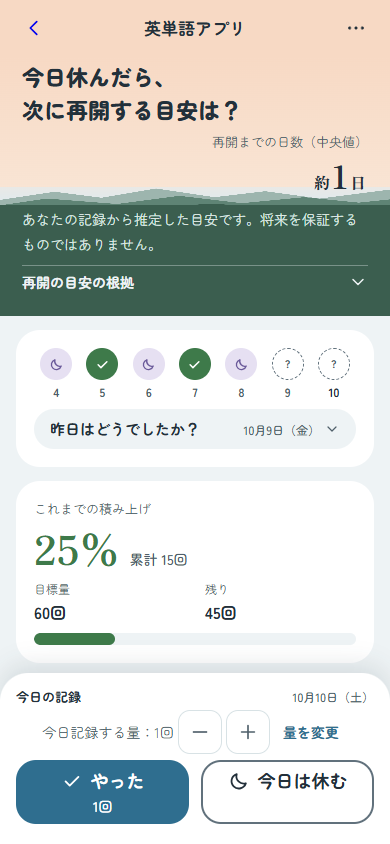
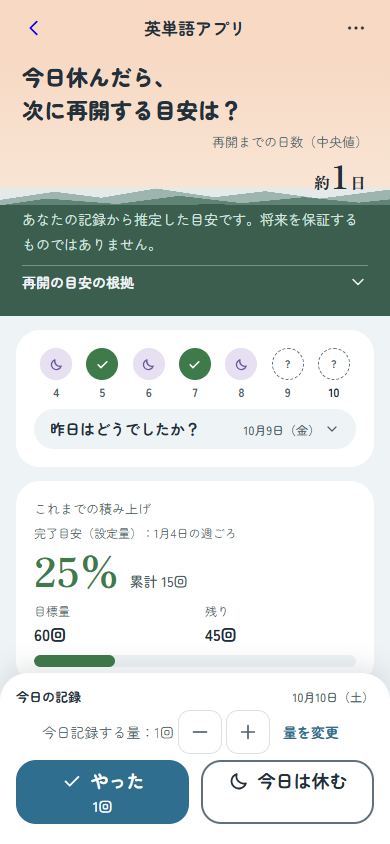
fix: スマホの進捗付近に設定量での完了目安を示す (#199)

diff --git a/apps/web/src/features/today/ProgressSummary.tsx b/apps/web/src/features/today/ProgressSummary.tsx
@@ -1,3 +1,4 @@
+import type { ReactNode } from 'react';
 import type { Log } from '@contracts';
 import { ResponsiveDetails } from './ResponsiveDetails.tsx';
 import { Section, SectionLabel } from '../../ui/components/Section.tsx';
@@ -18,17 +19,21 @@ interface Props {
   /** 量の書き方（分のGoalは累計・総量を時間＋分で出す、P-18）。 */
   fmt: AmountFormat;
   showDetails?: boolean;
+  brief?: ReactNode;
 }
 
 /** これまでの積み上げ。％は進捗だけに使い、累計は記録開始日〜今日の範囲で描く（今日より先の線は引かない）。 */
-export function ProgressSummary({ progress, initialProgress, logs, recordStartDate, today, fmt, showDetails = true }: Props) {
+export function ProgressSummary({ progress, initialProgress, logs, recordStartDate, today, fmt, showDetails = true, brief }: Props) {
   // 100% は達成したときだけ出す（未達で切り上げて 100% と見せない）
   const percent = Math.min(100, Math.floor((progress.done / progress.total) * 100));
   return (
     <Section labelledBy="fr-progress-title">
-      <SectionLabel as="h2" id="fr-progress-title">
-        {todayCopy.progressLabel}
-      </SectionLabel>
+      <div className="fr-progress__header">
+        <SectionLabel as="h2" id="fr-progress-title">
+          {todayCopy.progressLabel}
+        </SectionLabel>
+        {brief}
+      </div>
       <div className="fr-progress">
         <p className="fr-progress__percent">
           {percent}

diff --git a/apps/web/src/features/today/TodayPage.tsx b/apps/web/src/features/today/TodayPage.tsx
@@ -25,7 +25,7 @@ import { CoreMetric } from './CoreMetric.tsx';
 import { GoalMenu } from './GoalMenu.tsx';
 import { RecentDays } from '../history/RecentDays.tsx';
 import { ForecastBoundary } from './ForecastBoundary.tsx';
-import { CompletionDetails, OutlookPanel } from './OutlookPanel.tsx';
+import { CompletionBrief, CompletionDetails, OutlookPanel } from './OutlookPanel.tsx';
 import { ProgressDetails, ProgressSummary } from './ProgressSummary.tsx';
 import { AchievedFacts, AchievedPanel, ChangeHeader, RecordedSummary, TodayRecordLine } from './RecordedSummary.tsx';
 import { useTodayData } from './useTodayData.ts';
@@ -353,7 +353,7 @@ function TodayContent({
   const fmt = amountFormat(goal);
   const progress =
     view.kind === 'completed' || view.kind === 'forecast' || view.kind === 'today-recorded' ? (
-      <ProgressSummary showDetails={false} progress={view.progress} initialProgress={goal.initialProgress} logs={logs} recordStartDate={goal.recordStartDate} today={today.today} fmt={fmt} />
+      <ProgressSummary showDetails={false} brief={view.kind === 'forecast' || view.kind === 'today-recorded' ? <CompletionBrief completion={view.completion} /> : null} progress={view.progress} initialProgress={goal.initialProgress} logs={logs} recordStartDate={goal.recordStartDate} today={today.today} fmt={fmt} />
     ) : null;
   const progressDetails =
     view.kind === 'completed' || view.kind === 'forecast' || view.kind === 'today-recorded' ? (

diff --git a/apps/web/src/features/today/OutlookPanel.tsx b/apps/web/src/features/today/OutlookPanel.tsx
@@ -11,6 +11,13 @@ import { daysUntil, targetGap, targetGapText } from './target-gap.ts';
 import { sourceLabel } from '../prior/PriorForecast.tsx';
 import type { CompletionPresentation, Plan } from '../prior/presentation-types.ts';
 
+/** スマホの進捗近くへ置く同じ予測の要約。未保存量で再計算せず、日付の欠如も保持する。 */
+export function CompletionBrief({ completion }: { completion: CompletionPresentation }) {
+  return <p className="fr-completion-brief">{completion.kind === 'estimate'
+    ? completion.p50Label ? todayCopy.completionBrief(completion.p50Label) : todayCopy.completionBriefOutside
+    : todayCopy.completionBriefUnavailable}</p>;
+}
+
 /** これからの見通し（補助指標2）。目安と「10回中8回」の日付を、実際の日付に比例した軸に置く。 */
 export function OutlookPanel({
   completion,

diff --git a/apps/web/src/features/today/today-dawn.css b/apps/web/src/features/today/today-dawn.css
@@ -169,3 +169,8 @@ body:has(.fr-page--today) { background: #eef3f5; }
   .fr-page--today .fr-actionbar__pair { gap: 12px; }
   body:has(.fr-page--today) .fr-deskbar { background: #fff; color: #23303a; --fr-ink-2: #4f5f6a; --fr-dot: #2f6e8f; --fr-dot-soft: #e0edf4; --fr-on-dot: #fff; --fr-surface: #fff; --fr-line: #d8e2e5; }
 }
+
+/* 初期スマホで積み上げと未来の要約を同時に読める。詳細は既存Outlookで保持。 */
+.fr-page--today .fr-progress__header { display: flex; flex-wrap: wrap; align-items: baseline; justify-content: space-between; gap: 4px 8px; }
+.fr-page--today .fr-completion-brief { margin: 0; color: var(--fr-ink-2); font-size: 12px; line-height: 1.5; overflow-wrap: anywhere; }
+@media (min-width: 960px) { .fr-page--today .fr-completion-brief { display: none; } }

diff --git a/apps/web/src/copy/today.ts b/apps/web/src/copy/today.ts
@@ -24,6 +24,9 @@ export const todayCopy = {
   progressActual: (amount: string) => `累計 ${amount}`,
   completionLabelCurrent: (session: string) => `設定量（${session}）で続ける場合`,
   completionP50: (week: string) => `${week}ごろ`,
+  completionBrief: (week: string) => `完了目安（設定量）：${week}ごろ`,
+  completionBriefUnavailable: '完了目安：まだ算出できません',
+  completionBriefOutside: '完了目安：約3年以内の目安なし',
   completionP80: (week: string) => `10回中8回は${week}まで`,
   completionP80Over3Years: '10回中8回の完了時期の目安は、計算範囲の約3年以内には収まりません。',
   /** 補助指標2の注釈（Product Spec の固定文言）。 */

diff --git a/design-qa.md b/design-qa.md
@@ -12,13 +12,15 @@ Todayは累計・目標・残りと進捗バー、設定量で続けた場合の
 
 Goalフォームにnative Tabで入力が底の保存欄へ隠れるP2を確認（320×568の総量、390×300のタイトル）。Goal scoped CSSだけで保存欄を通常flowへ戻し、全可用fieldの可視focus・中心hit-test INPUT・末尾保存への自然scrollを再確認して解消した。共有ActionBar/Today dock/保存/validation/dirty guardは変更していない。最終独立判定は新P0/P1/P2なし。技術判定は本人UX受入の代用ではない。
 
-最終ローカル型、本番Vite build、Web111 pass/1 skip、実Chrome14 pass/fail0/skip0を実施。実AmountEditor13ケースは設定量と異なる量での注記、同量への復帰、非保存、既存整数/連打/keyboard/IME/busy/focus境界を含む。既存hookのowner/確認/保存日/昨日跨日のassertを保全した。500kBチャンク警告は既存のまま。新exact HEAD CIはDraft PR202の検証欄へrun/HEADを記録する。main041f24cとの差分でAPI/Engine変更0、依存/lock/CI workflow変更0、通常checkoutの未保存Engineと.vscodeを保全。
+最終ローカル型、本番Vite build、Web112 pass/1 skip、実Chrome14 pass/fail0/skip0を実施。実AmountEditor13ケースは設定量と異なる量での注記、同量への復帰、非保存、既存整数/連打/keyboard/IME/busy/focus境界を含む。既存hookのowner/確認/保存日/昨日跨日のassertを保全した。500kBチャンク警告は既存のまま。新exact HEAD CIはDraft PR202の検証欄へrun/HEADを記録する。main041f24cとの差分でAPI/Engine変更0、依存/lock/CI workflow変更0、通常checkoutの未保存Engineと.vscodeを保全。
 
 追加の実操作レビューは公開入口→既存ログイン→Goal一覧→設定→Today→設定量20分の保存→訂正取消→履歴→再訪の8点を通過した。保存は追加QA Goalの同日同量再保存PUT200を1回だけ実施し、設定DTO・全記録の値と件数は前後一致。4状態fixtureの書込は0。記録変更の取消focusは見出し、量変更の取消focusは元の増量操作に復帰した。保存失敗・日付変更・超過は既存テスト証拠と区別する。
 
 山の背景上にある「記録を変更」の境界は実画素2.789:1でShouldとなり、Today限定のボタン枠色1変数を濃くして390pxで4.063、1440pxで4.072へ改善した。採取したsolid文字の最小4.773、必要操作境界3.370、focus5.603。初期「+」の淡い装飾枠は1.318だが識別glyph自体は6.609であり、全枠3:1や全画像画素網羅の適合とは主張しない。最終再採取の5画像とhashを保持し、追加保存0、未解消Must/Should0。旧実画像・計測はbefore-border-fix-*とjourney-before-border-fix.jsonへ保全した。
 
 5e1952cのPR Application run38026000696はResponsiveDetailsのChrome DevTools起動待ち15秒で失敗した。該当ブラウザassert開始前であり、アプリassert失敗と読み替えない。同じrunnerイメージで前回はstderr接続先と6subtestが成功しており、再発はserver開始前の停止/遅延に整合するが、CPU/背景処理/dbusの根因は未確定。専用Chrome childにPuppeteer標準のdisable-background-networkingだけを加え、起動elapsed・Browser.getVersion・hostload/メモリ・pid/exit診断を記録する最小の隔離安定化仮説とした。起動10秒/実入力/assert/保護設定は保持し、無変更retryはしない。テストやゲートは弱めず、最終push後のPR検証に加え、既存workflow_dispatchでブランチ実HEADを直接checkoutしたApplication/FoundationのrunとSHAをPRに記録する。PRの既定checkoutは合成mergeであり、PR headSha表示だけを直接HEAD検査とは呼ばない。
+
+最終Library v4の親による実画像レビューで、390px初期画面から完了見込みが完全に外れるShouldを確認した。ProgressSummaryの見出しの横へmobile限定のCompletionBriefを再掲し、同じview.completion.p50Labelだけを使う。p50nullは約3年以内の目安なし、材料不足/conditionalはまだ算出できない、completedには出さない。desktopは非表示として既存Outlookの詳細と前提を保つ。新予測/API/draft依存の再計算は0。実部品SSR1件を加え、最終Web112 pass/1skip、型、本番build成功。前段bad0c97のPRと直接HEAD CIはともに成功し、Chrome起動6583/7200ms・実native6subtestとWeb125pass/skip0を保持する。要約後の実Chromeは390×844でbrief・累計・進捗バー・dockの全体が初期clip内に可視、320×844/568・390×300・文字200%はoverflow0/自然scroll到達、1440は非表示で既存Outlook保持。forecast/recorded/conditionalのAPI週一致、達成済みはbriefなし。非達成3状態の異量注記show/hide/ARIA・予測週不変・保存0、採取前後ソースhash一致を確認した。p50=nullのlivefixtureはなく実componentテストと区別する。最終要約コミットは別SHAで再CIを確認する。
 
 代表実画像：[トップ390](docs/ui/dawn-app/home-390.png)、[トップ1440](docs/ui/dawn-app/home-1440.png)、[ログイン](docs/ui/dawn-app/login-390.png)、[Goal一覧](docs/ui/dawn-app/goals-390.png)、[フォーム全体](docs/ui/dawn-app/goal-form-390.png)、[履歴](docs/ui/dawn-app/history-390.png)、[アカウント](docs/ui/dawn-app/account-390.png)、[Today390](docs/ui/today-dawn/preview-mobile-390.png)、[Today1440](docs/ui/today-dawn/preview-desktop-1440.png)、[Today詳細までscroll](docs/ui/today-dawn/preview-mobile-scroll-end-390.png)。私的メール部分はマスク済み。情報階層と次操作を優先する判断は[Apple一次資料](https://developer.apple.com/videos/play/wwdc2022/10037/)の今回のUIへの適用であり、一般論だけを実機検証の代わりにしない。
 

diff --git a/docs/product-spec.md b/docs/product-spec.md
@@ -313,7 +313,7 @@ Todayのg50は休んでから最初に再開するまでの待ち日数の中央
 
 全体精査を求める2026-10-10の本人追加指示により、公開トップ・ログイン・登録・Goal一覧・作成・編集（設定）・履歴・アカウントへ空の背景、森の操作、共通の書体・余白・フォームを適用する。OSの暗色指定でも明るい共通配色で表示する。入口は用途と登録/ログインの次操作を先に示し、山の風景は装飾として同じ既存資産を使う。サンプル予測・新しいGoal・認証不要Todayは追加しない。公開トップはGoal/記録を取得せず、既存の認証状態と戻り先に従う。Goal一覧は今日の記録への導線、作成/編集は基本・量・日付の階層、履歴は対象Goal名を明示する。認証、validation、session/owner、保存/削除確認、各API契約と日付の責務は保つ。Goalフォームの保存欄は通常の文書配置にし、短い画面でTab移動先の入力を覆わないようにする。
 
-同日の本人による「いいね」「やろう」の追加承認に沿い、既存仕様内で3点を採用する。目標・累計・残りと進捗バー、設定量で続けた場合の完了見込みを連続して置き、その後へ予測/実績の詳細をまとめる。desktop初期展開と明示開閉保持は変えない。再開待ちの明朝数字は100pxから32pxへ縮小し、Goalの現在位置と行き先を読み取る階層にする。予測ラベルは「設定量（{1回の量}）で続ける場合」、今日の入力ラベルは「今日記録する量」とし、設定量と異なる有効入力のときだけ「予測は設定量{1回の量}をもとに表示しています」と添える。TODAY_DONEの今日の仮実行とCURRENT_STATEの保存済み実績は説明で区別し、入力中の量に基づく予測や休む完了日は作らない。情報の階層と次操作を明確にする設計判断は[AppleのWriting for interfaces](https://developer.apple.com/videos/play/wwdc2022/10037/)の一次資料を参照した適用判断である。
+同日の本人による「いいね」「やろう」の追加承認に沿い、既存仕様内で3点を採用する。目標・累計・残りと進捗バー、設定量で続けた場合の完了見込みを連続して置き、その後へ予測/実績の詳細をまとめる。desktop初期展開と明示開閉保持は変えない。再開待ちの明朝数字は100pxから32pxへ縮小し、Goalの現在位置と行き先を読み取る階層にする。予測ラベルは「設定量（{1回の量}）で続ける場合」、今日の入力ラベルは「今日記録する量」とし、設定量と異なる有効入力のときだけ「予測は設定量{1回の量}をもとに表示しています」と添える。TODAY_DONEの今日の仮実行とCURRENT_STATEの保存済み実績は説明で区別し、入力中の量に基づく予測や休む完了日は作らない。最終画像レビューではスマホ初期画面から完了見込みが外れるため、進捗の見出し付近に「完了目安（設定量）：{既存APIの週}ごろ」を短く再掲する。約3年以内に目安がない場合や材料不足は日付を補わずその状態を示す。desktopの重複要約は表示せず、既存Outlookの前提・範囲・詳細を保持する。情報の階層と次操作を明確にする設計判断は[AppleのWriting for interfaces](https://developer.apple.com/videos/play/wwdc2022/10037/)の一次資料を参照した適用判断である。
 
 新規Engine/API契約の採択ではなく、選択済み案を実画面で調整する段階。本人へ動くプレビューとスマホ/デスクトップ画像を示して修正点を受け取り、人間の最終UX受入や製品完成へ読み替えない。書体と背景の[出典・加工](../apps/web/src/features/today/assets/README.md)、実装は[TodayPage](../apps/web/src/features/today/TodayPage.tsx)と[Today専用CSS](../apps/web/src/features/today/today-dawn.css)、比較QAは[design-qa](../design-qa.md)を参照する。
 
